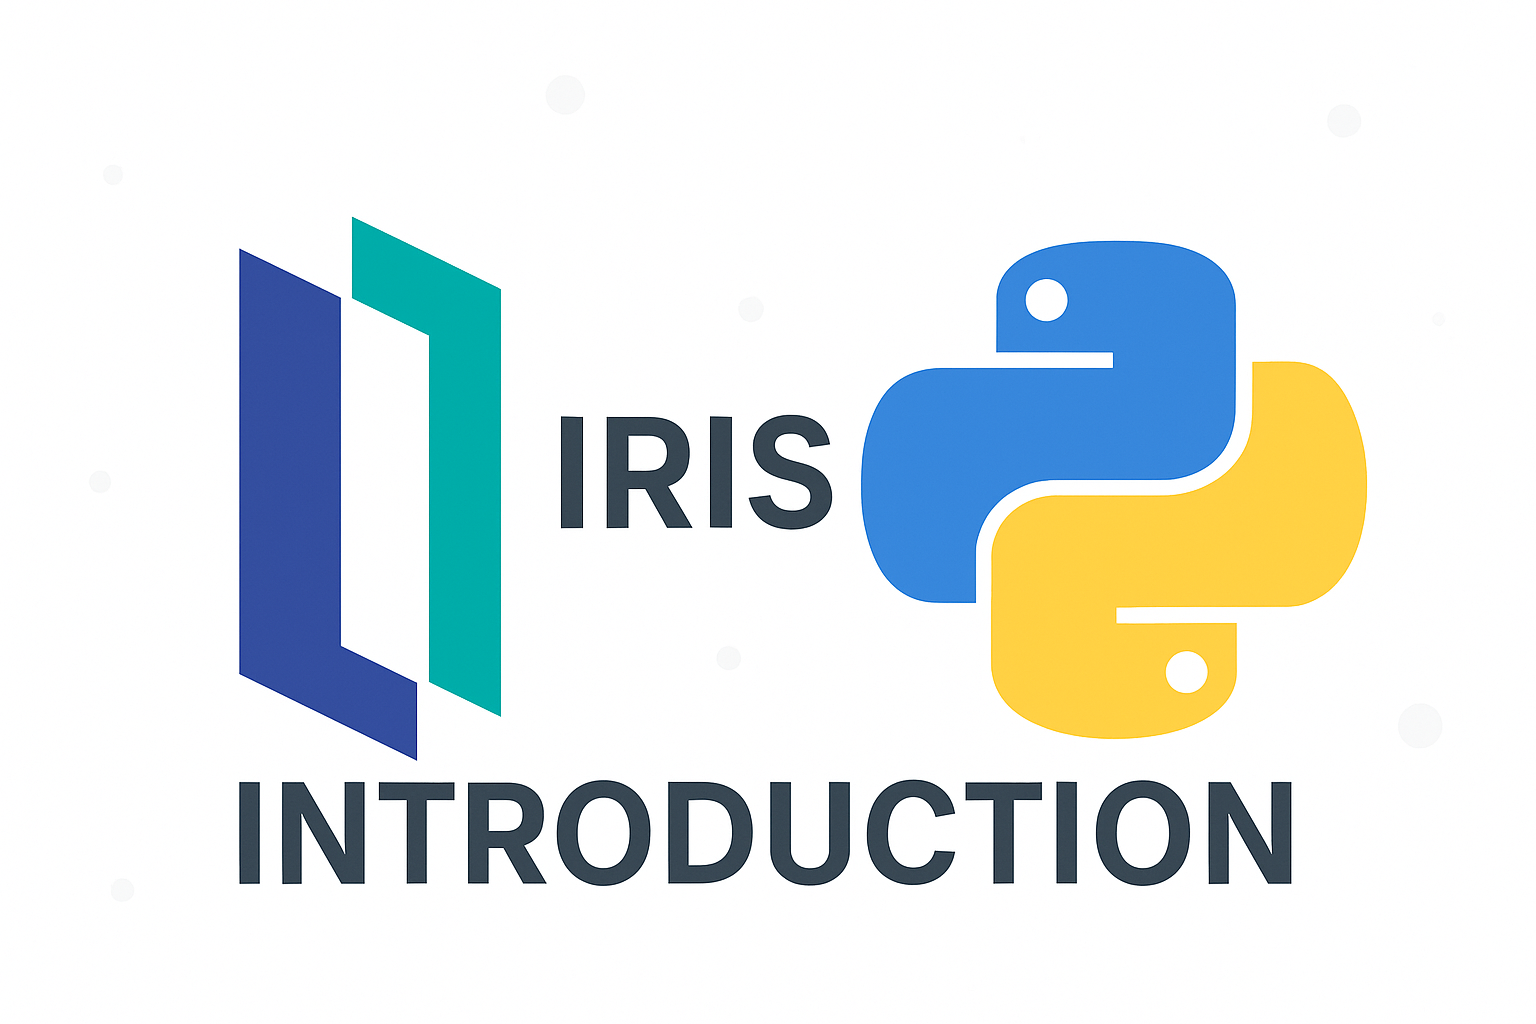
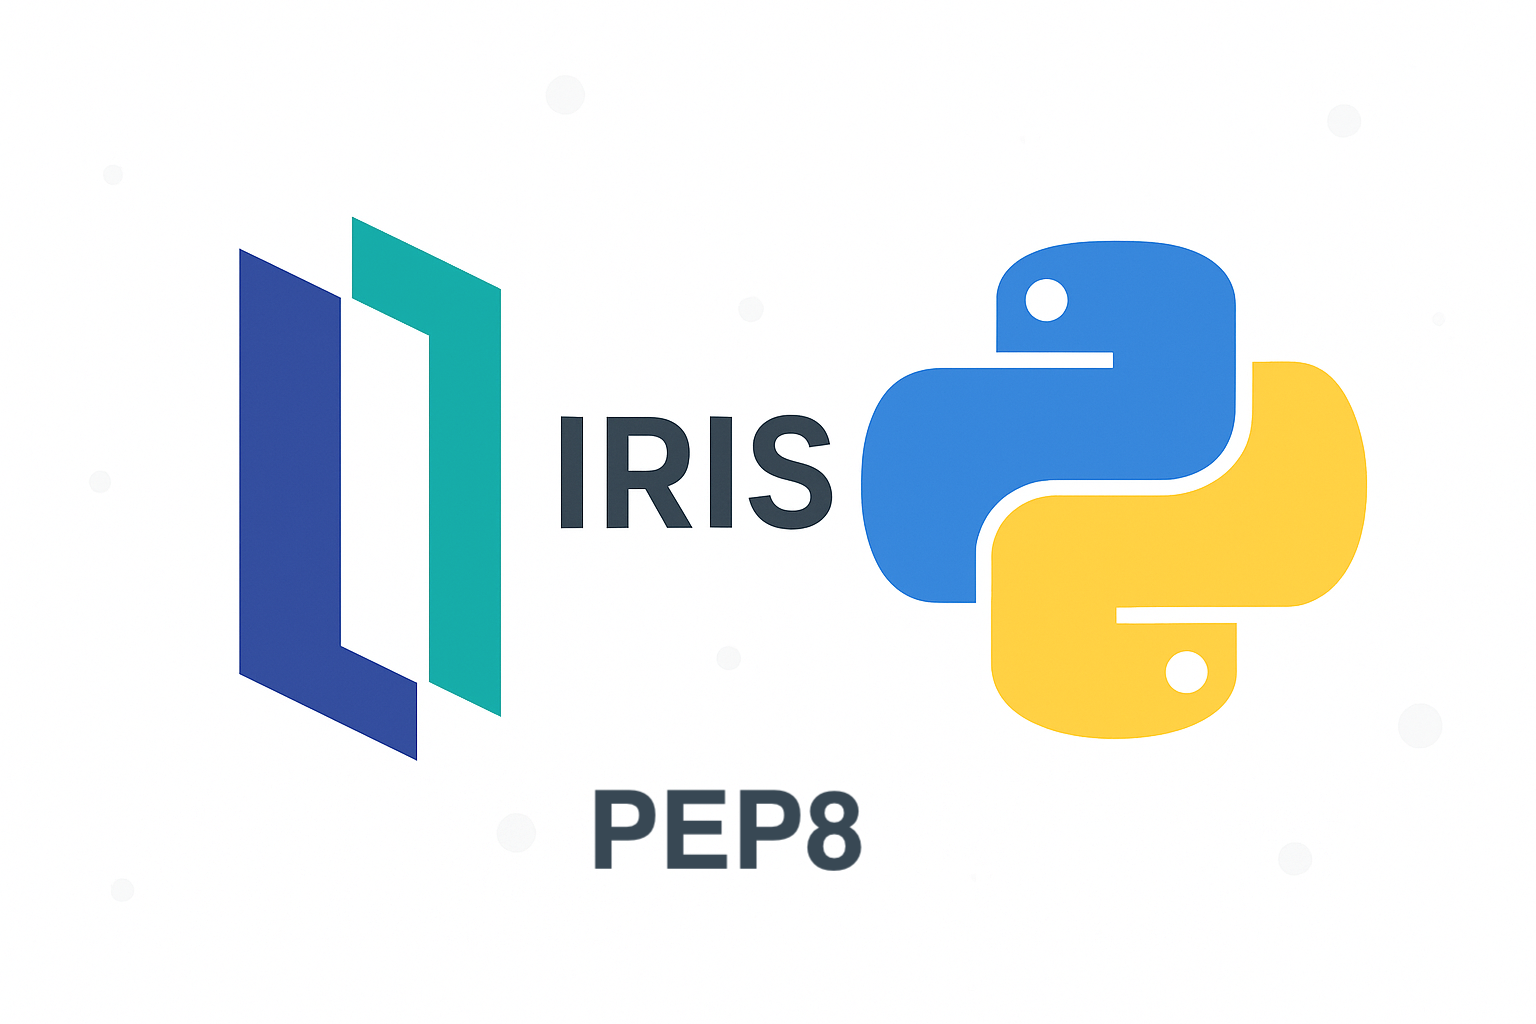
Add images to introductory articles on Python programming, dunder methods, PEP 8, modules, and virtual environments

Changed region(s): [[0.1562, 0.75, 0.8438, 0.875]]

diff --git a/ArticleDunder.md b/ArticleDunder.md
@@ -1,5 +1,7 @@
 # Introduction to Python Dunder Methods
 
+![img](https://raw.githubusercontent.com/grongierisc/iris-python-article/master/misc/img/image%20dunder.png)
+
 This will be a short article about Python dunder methods, also known as magic methods.
 
 ## What are Dunder Methods?
@@ -9,7 +11,7 @@ Dunder methods are special methods in Python that start and end with double unde
 Some common dunder methods include:
 
 - `__init__(self, ...)`: Called when an object is created.
-    - Like our '%OnNew' method in ObjectScript.
+    - Like our `%OnNew` method in ObjectScript.
 - `__str__(self)`: Called by the `str()` built-in function and `print` to represent the object as a string.
 - `__repr__(self)`: Called by the `repr()` built-in function to represent the object for debugging.
 - `__add__(self, other)`: Called when the `+` operator is used.
@@ -65,6 +67,23 @@ This will output:
 ```
 
 This demonstrates how to use dunder methods to interact with Python objects in an IRIS context, allowing you to leverage Python's capabilities while working within the ObjectScript environment.
+
+## Bonus
+
+A good use of dunder is to put at the end of your python script a `if __name__ == "__main__":` block to prevent the code from being executed when the script is imported as a module.
+
+Remember, the first article explained that when you import a script, the code is executed. This block allows you to define code that should only run when the script is executed directly, not when it's imported.
+
+Example:
+
+```python
+# src/python/article/dunder_example.py
+def get_list():
+    return [1, 2, 3, 4, 5]
+
+if __name__ == "__main__":
+    print(get_list())
+```
 
 ## Conclusion
 

diff --git a/Article0.md b/Article0.md
@@ -1,5 +1,7 @@
 # Introduction to Python Programming in an IRIS context
 
+![img](https://raw.githubusercontent.com/grongierisc/iris-python-article/master/misc/img/image%20introducction.png)
+
 This will be an introduction to Python programming in the context of IRIS.
 
 Before anything I will cover an important topic: **How python works**, this will help you understand some issues and limitations you may encounter when working with Python in IRIS.
@@ -112,7 +114,7 @@ iris session iris -U IRISAPP '##class(Article.Introduction1).Run()'
 
 You will see no output, because the function is defined but not called.
 
-🤯 Why this subtility is important ?
+🤯 Why this subtlety is important ?
 
 - When you import a Python script, it executes the code in that script.
   - You may don't want this to happen

diff --git a/ArticleVenv.md b/ArticleVenv.md
@@ -1,10 +1,13 @@
 # Introduction to Virtual Environments in Python
 
+![img](https://raw.githubusercontent.com/grongierisc/iris-python-article/master/misc/img/image%20venv.png)
+
 This article will introduce you to the concept of virtual environments in Python, which are essential for managing dependencies and isolating project from the OS.
 
 ## What is a Virtual Environment?
 
 A virtual environment is a folder that contains :
+
 - A specific version of Python
 - At start an empty site-packages directory
 

diff --git a/ArticleModule.md b/ArticleModule.md
@@ -1,5 +1,7 @@
 # Introduction to Python Modules
 
+![img](https://raw.githubusercontent.com/grongierisc/iris-python-article/master/misc/img/image%20modules.png)
+
 Modules what a topic! We don't have this notion in ObjectScript, but it's a fundamental concept in Python. Let's discover it together.
 
 ## What is a Module?

diff --git a/ArticlePep8.md b/ArticlePep8.md
@@ -1,5 +1,7 @@
 # Introduction to PEP 8
 
+![img](https://raw.githubusercontent.com/grongierisc/iris-python-article/master/misc/img/image%20pep8.png)
+
 This will be a short article about PEP 8, the Python style guide.
 
 ## What is PEP 8?
